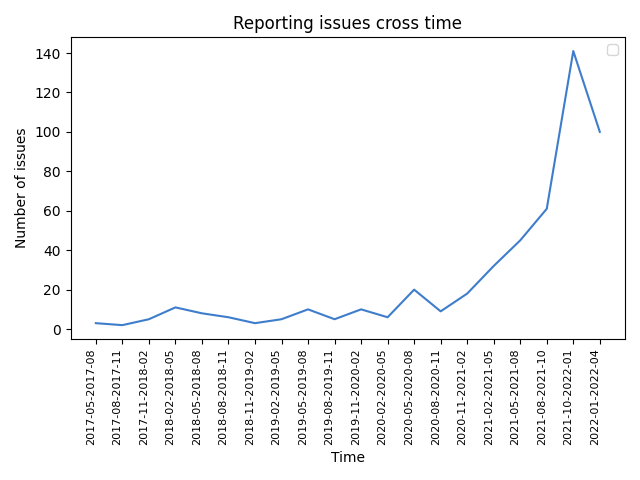
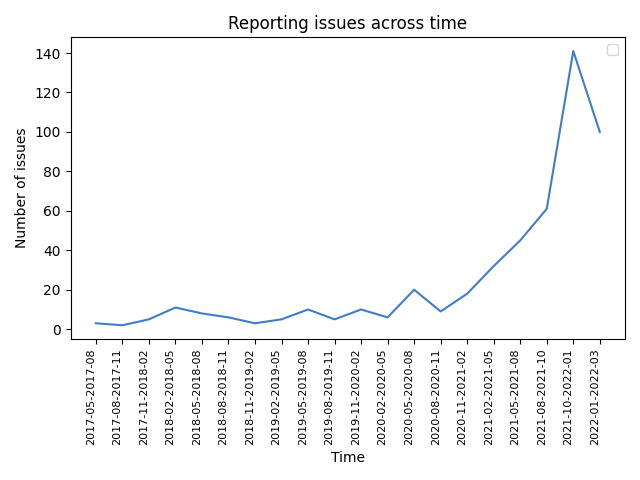
Updated: period devision

Changed region(s): [[0.3438, 0.0312, 0.75, 0.0625], [0.9062, 0.7188, 0.9375, 0.75]]

diff --git a/dataTreator/statTreatments.py b/dataTreator/statTreatments.py
@@ -86,16 +86,20 @@ while i >= 0:
         dict_closed[StratingPeriodDate[0:7] + "-" + EndingPeriodDate[0:7]] = counter_closed
         dict_comment[StratingPeriodDate[0:7] + "-" + EndingPeriodDate[0:7]] = nb_comment
         counter = 0
-        counter_update=0
-        counter_closed=0
-        nb_comment=0
+        counter_update = 0
+        counter_closed = 0
+        nb_comment = 0
         StratingPeriodDate = EndingPeriodDate
         EndingPeriodDate = dateToString(rangeDate(StratingPeriodDate))
 
-dictionnary[StratingPeriodDate[0:7] + "-" + EndingPeriodDate[0:7]] = counter
-dict_update[StratingPeriodDate[0:7] + "-" + EndingPeriodDate[0:7]] = counter_update
-dict_closed[StratingPeriodDate[0:7] + "-" + EndingPeriodDate[0:7]] = counter_closed
-dict_comment[StratingPeriodDate[0:7] + "-" + EndingPeriodDate[0:7]] = nb_comment
+dictionnary[
+    StratingPeriodDate[0:7] + "-" + dateToString(datetime.strptime(rows[0][6], "%Y-%m-%dT%H:%M:%SZ"))[0:7]] = counter
+dict_update[StratingPeriodDate[0:7] + "-" + dateToString(datetime.strptime(rows[0][6], "%Y-%m-%dT%H:%M:%SZ"))[
+                                            0:7]] = counter_update
+dict_closed[StratingPeriodDate[0:7] + "-" + dateToString(datetime.strptime(rows[0][6], "%Y-%m-%dT%H:%M:%SZ"))[
+                                            0:7]] = counter_closed
+dict_comment[
+    StratingPeriodDate[0:7] + "-" + dateToString(datetime.strptime(rows[0][6], "%Y-%m-%dT%H:%M:%SZ"))[0:7]] = nb_comment
 print(globalnm)
 print(dictionnary.keys())
 occurences = collections.Counter(labels_general_list)
@@ -130,7 +134,7 @@ figTime, axTime = pyplot.subplots()
 TimePlot = axTime.plot([j for j in dictionnary.keys()], [dictionnary[i] for i in dictionnary.keys()], color='#3E7DCC')
 axTime.set_ylabel('Number of issues')
 axTime.set_xlabel('Time')
-axTime.set_title('Reporting issues cross time')
+axTime.set_title('Reporting issues across time')
 axTime.set_xticks(np.arange(len(dictionnary)))
 axTime.set_xticklabels(dictionnary.keys(), rotation=90, ha='right', fontsize=8)
 axTime.legend()
@@ -138,13 +142,17 @@ figTime.tight_layout()
 pyplot.savefig('../dataPlot/NbIssuesPerTime.png')
 
 figTimeSU, axTimeSU = pyplot.subplots()
-axTimeSU.plot([j for j in dictionnary.keys()], [dictionnary[i] for i in dictionnary.keys()], color='#3E7DCC', label= 'created issues')
-axTimeSU.plot([j for j in dict_update.keys()], [dictionnary[i] for i in dict_update.keys()], color='yellow', linestyle='-.', label="updated issues")
-axTimeSU.plot([j for j in dict_closed.keys()], [dict_closed[i] for i in dict_closed.keys()], color='red', label= "closed issues")
-axTimeSU.plot([j for j in dict_comment.keys()], [dict_comment[i] for i in dict_comment.keys()], color='green', label= "comment number")
+axTimeSU.plot([j for j in dictionnary.keys()], [dictionnary[i] for i in dictionnary.keys()], color='#3E7DCC',
+              label='created issues')
+axTimeSU.plot([j for j in dict_update.keys()], [dictionnary[i] for i in dict_update.keys()], color='yellow',
+              linestyle='-.', label="updated issues")
+axTimeSU.plot([j for j in dict_closed.keys()], [dict_closed[i] for i in dict_closed.keys()], color='red',
+              label="closed issues")
+axTimeSU.plot([j for j in dict_comment.keys()], [dict_comment[i] for i in dict_comment.keys()], color='green',
+              label="comment number")
 axTimeSU.set_ylabel('Number of issues')
 axTimeSU.set_xlabel('Time')
-axTimeSU.set_title('Reporting issues cross time')
+axTimeSU.set_title('Reporting issues across time')
 axTimeSU.set_xticks(np.arange(len(dictionnary)))
 axTimeSU.set_xticklabels(dictionnary.keys(), rotation=90, ha='right', fontsize=8)
 axTimeSU.legend()

diff --git a/dataCollector/DataCollector.py b/dataCollector/DataCollector.py
@@ -1,8 +1,5 @@
-import base64
 from github import Github
-from pprint import pprint
 import requests
-import json
 import csv
 NB_ISSUES= 500
 USER= "rails"
